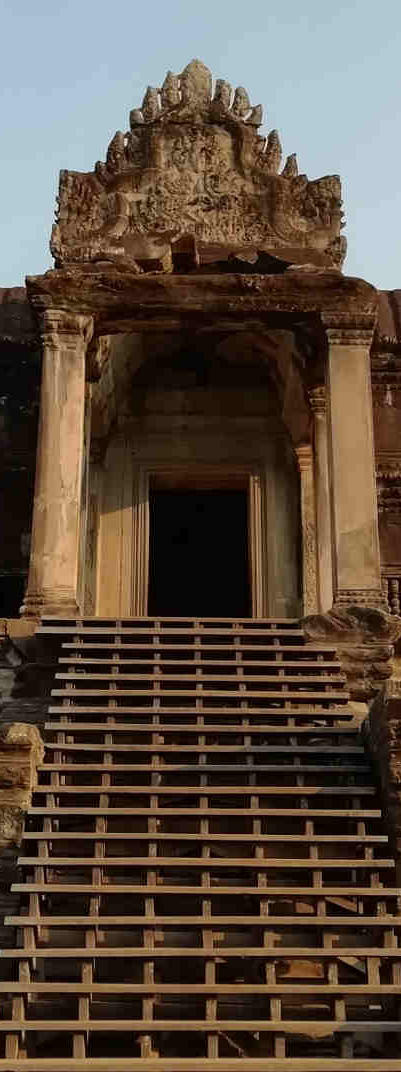
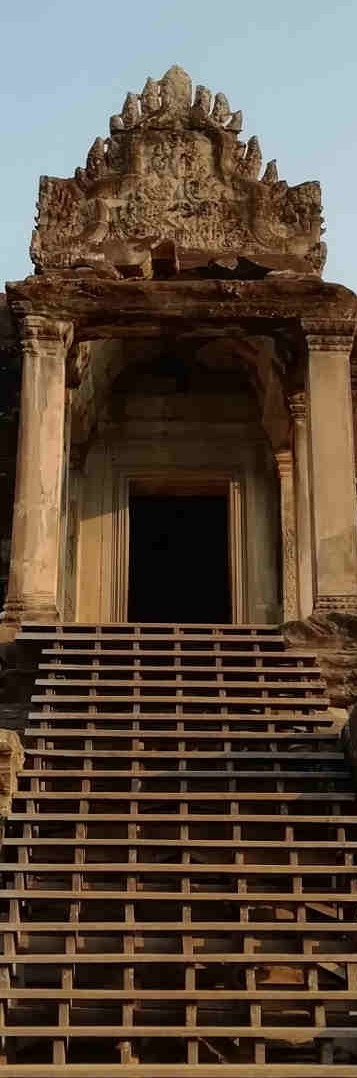
background pictures looking better

diff --git a/app/assets/stylesheets/decorations/backgrounds.scss b/app/assets/stylesheets/decorations/backgrounds.scss
@@ -6,22 +6,23 @@
   background-repeat: no-repeat;
   background-image: linear-gradient(rgba(143, 112, 77, 0.3), rgba(143, 112, 77, 0.4)), url(/img/angkor_xs.jpg);
   background-size: cover;
+  // background: center;
 }
 
-@media (min-width: 1200px) {
+@media (min-width: 1600px) {
   .backgrounded {
     background-image: linear-gradient(rgba(143, 112, 77, 0.3), rgba(143, 112, 77, 0.4)), url(/img/angkor_lg.jpg);
   }
 }
 
-@media (min-width: 992px) and (max-width: 1199px) {
+@media (min-width: 1200px) and (max-width: 1599px) {
   .backgrounded {
     background-image: linear-gradient(rgba(143, 112, 77, 0.3), rgba(143, 112, 77, 0.4)), url(/img/angkor_md.jpg);
   }
 }
 
 
-@media (min-width: 600px) and (max-width: 991px) {
+@media (min-width: 992px) and (max-width: 1199px) {
   .backgrounded {
     background-image: linear-gradient(rgba(143, 112, 77, 0.3), rgba(143, 112, 77, 0.4)), url(/img/angkor_sm.jpg);
   }
